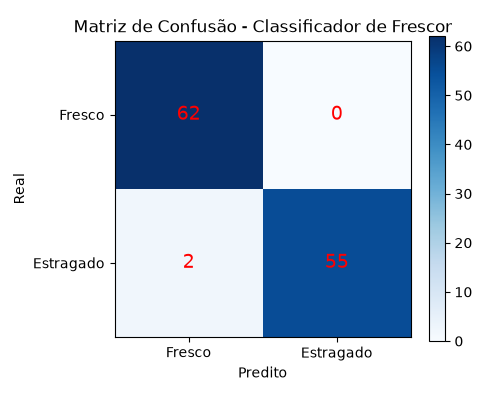
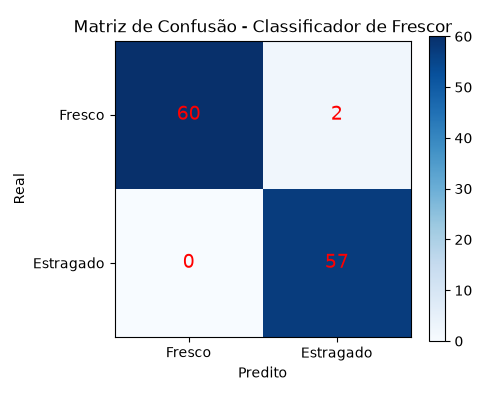
feat(vision): aplica cost-sensitive learning e amplia margem de incerteza para seguranca alimentar
- Penaliza 2x mais falsos negativos (alimentos deteriorados passando batido)

- Amplia faixa de incerteza do Active Learning para 25%-70% com confirmacao humana

- Atualiza modelo treinado e relatorios de metricas

diff --git a/src/zerodesperdicio/vision/train_classifier.py b/src/zerodesperdicio/vision/train_classifier.py
@@ -163,10 +163,14 @@ def train_and_evaluate(
     zs_f1_fresco = float(f1_score(y_test, y_pred_zero_shot, pos_label=0, zero_division=0))
     zs_f1_estragado = float(f1_score(y_test, y_pred_zero_shot, pos_label=1, zero_division=0))
 
-    # 5. Treina a Regressão Logística supervisionada
-    print("\n[3/4] Treinando Classificador Supervisionado (Regressão Logística)...")
+    # 5. Treina a Regressão Logística supervisionada com ponderação de custo (Cost-Sensitive Learning)
+    # Dá peso maior para classe estragado (1) para evitar Falsos Negativos (segurança alimentar)
+    print("\n[3/4] Treinando Classificador Supervisionado (Regressão Logística - Custo Sensível)...")
     lr_model = LogisticRegression(
-        C=1.0, max_iter=1000, random_state=42, class_weight="balanced"
+        C=1.0,
+        max_iter=1000,
+        random_state=42,
+        class_weight={0: 1.0, 1: 2.0},  # Penaliza 2x mais deixar passar estragado
     )
     lr_model.fit(X_train, y_train)
 
@@ -264,9 +268,11 @@ class FreshnessClassifierService:
         self,
         model_path: Optional[Path] = None,
         clip_extractor: Optional[CLIPZeroShotClassifier] = None,
+        spoilage_threshold: float = 0.50,  # Limiar balanceado padrão (>=0.50 para estragando)
     ):
         root_dir = Path(__file__).resolve().parent.parent.parent.parent
         self.model_path = model_path or (root_dir / "models" / "freshness_classifier.joblib")
+        self.spoilage_threshold = spoilage_threshold
 
         self.clip = clip_extractor or CLIPZeroShotClassifier()
         self._model: Optional[LogisticRegression] = None
@@ -281,7 +287,7 @@ class FreshnessClassifierService:
         return self._model
 
     def predict(self, image: Image.Image | str | Path) -> FreshnessPrediction:
-        """Prediz frescor a partir de uma imagem, retornando probabilidade e alerta."""
+        """Prediz frescor a partir de uma imagem, retornando probabilidade e alerta conservador."""
         model = self._load_model()
         emb = self.clip.extract_image_embedding(image)
         emb_2d = emb.reshape(1, -1)
@@ -291,14 +297,15 @@ class FreshnessClassifierService:
         prob_fresco = float(probs[0])
         prob_estragar = float(probs[1])
 
-        # Se probabilidade de estar estragando for >= 50%
-        if prob_estragar >= 0.50:
+        # Segurança Alimentar: Se probabilidade de estar estragando for >= limiar (>= 50%)
+        # trata como deterioração preventiva para nunca deixar alimento suspeito passar batido
+        if prob_estragar >= self.spoilage_threshold:
             status = "começando a estragar"
             confianca = prob_estragar
             sobe_prioridade = True
             alerta = (
-                "Atenção: o alimento apresenta indícios de deterioração. "
-                "Confira o aspecto e o cheiro e aproveite logo nas receitas prioritárias!"
+                "Atenção preventiva: o alimento apresenta indícios de deterioração ou perda de frescor. "
+                "Confira o aspecto visual, textura e odor antes do consumo e priorize na despensa!"
             )
         else:
             status = "fresco"

diff --git a/src/zerodesperdicio/vision/agent.py b/src/zerodesperdicio/vision/agent.py
@@ -72,9 +72,10 @@ class VisionAgent:
         # Inferência do classificador treinado
         pred = self.classifier.predict(image)
 
-        # Regra de Incerteza (Active Learning):
-        # Se a probabilidade for próxima a 50% (ex: entre 40% e 65%), marca para conferência do usuário
-        margem_incerteza = 0.40 <= pred.prob_estragar <= 0.65
+        # Regra de Incerteza (Active Learning conservadora):
+        # Se a probabilidade de deterioração estiver na faixa de ambiguidade (entre 25% e 70%),
+        # marca obrigatoriamente para revisão e confirmação humana no app
+        margem_incerteza = 0.25 <= pred.prob_estragar <= 0.70
 
         if pred.sobe_prioridade:
             dias_recomendados = 1  # Consumir até amanhã
